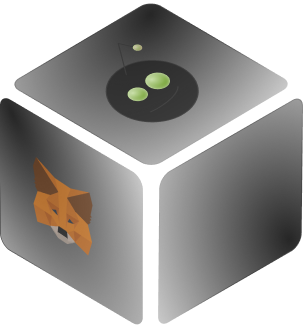
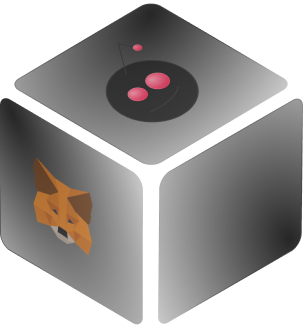
Theme change, editor wip for posts

Changed region(s): [[0.4158, 0.2128, 0.5644, 0.304], [0.4455, 0.1216, 0.4752, 0.152]]

diff --git a/components/pages/createPost/TextEditor.tsx b/components/pages/createPost/TextEditor.tsx
@@ -1,0 +1,69 @@
+import React, { SetStateAction } from "react";
+import { FontAwesomeIcon } from "@fortawesome/react-fontawesome";
+import {
+  faBold,
+  faItalic,
+  faLink,
+  faList,
+  faStrikethrough,
+} from "@fortawesome/free-solid-svg-icons";
+import Tippy from "@tippyjs/react";
+import { IconProp } from "@fortawesome/fontawesome-svg-core";
+
+interface Options {
+  action: string;
+  icon: IconProp;
+  active: boolean;
+}
+
+interface Props {
+  setActiveMarkdown: React.Dispatch<SetStateAction<string[]>>;
+}
+
+const TextEditor = ({ setActiveMarkdown }: Props) => {
+  const [activeOptions, setActiveOptions] = React.useState<Options[]>([
+    { action: "bold", icon: faBold, active: false },
+    { action: "italic", icon: faItalic, active: false },
+    { action: "strike through", icon: faStrikethrough, active: false },
+    { action: "list", icon: faList, active: false },
+    { action: "link", icon: faLink, active: false },
+  ]);
+  const activeHandler = (action: string) => {
+    const newActiveOptions = activeOptions.map((option) => {
+      if (option.action === action) {
+        option.active = !option.active;
+      }
+      return option;
+    });
+    setActiveOptions(newActiveOptions);
+    setActiveMarkdown(
+      newActiveOptions.reduce((acc, option) => {
+        if (option.active) {
+          acc.push(option.action);
+        }
+        return acc;
+      }, [] as string[])
+    );
+  };
+  return (
+    <div
+      className="w-full h-10 border-zinc-800 bg-darkContent rounded-tl
+        rounded-tr border-t border-l border-r mt-5 flex items-center justify-center px-3 gap-5"
+    >
+      {activeOptions.map(({ active, action, icon }, index) => (
+        <Tippy key={index.toString()} content={action}>
+          <FontAwesomeIcon
+            onClick={() => activeHandler(action)}
+            className={`text-content transition-all duration-200
+            hover:brightness-125 cursor-pointer hover:bg-contentBg focus:outline-0 ${
+              active && "text-primary"
+            }`}
+            icon={icon}
+          />
+        </Tippy>
+      ))}
+    </div>
+  );
+};
+
+export default TextEditor;

diff --git a/pages/create.tsx b/pages/create.tsx
@@ -1,0 +1,61 @@
+import Layout from "../components/global/Layout";
+import PageContainer from "../components/global/PageContainer";
+import React, { useEffect } from "react";
+import Input from "../components/global/Input";
+import Button from "../components/global/Button";
+import TextEditor from "../components/pages/createPost/TextEditor";
+
+const Create = () => {
+  const [postInfo, setPostInfo] = React.useState({
+    title: "",
+    content: "",
+  });
+  const [activeMarkdown, setActiveMarkdown] = React.useState<any>([]);
+  const inputHandler = (e: React.ChangeEvent<any>) => {
+    setPostInfo({
+      ...postInfo,
+      [e.target.name || "content"]:
+        e.target.value || e.currentTarget.textContent,
+    });
+  };
+  return (
+    <PageContainer>
+      <h1 className="text-white text-[30px] font-bold">Create post</h1>
+      <div
+        className="mt-10 border border-zinc-800 bg-contentBg
+      rounded-xl h-auto px-10 py-10"
+      >
+        <Input
+          className="h-12 px-5"
+          type="text"
+          name="title"
+          placeholder={"Title"}
+          onChange={(e) => inputHandler(e)}
+          value={postInfo.title}
+        />
+        <TextEditor setActiveMarkdown={setActiveMarkdown} />
+        <div
+          placeholder="What are your thoughts?"
+          contentEditable={true}
+          onInput={(e) => inputHandler(e)}
+          className="text-[14px] bg-darkContent text-white resize-none
+          transition-all duration-200 border border-zinc-800 w-full
+          h-80 focus:outline-0 focus:border-primary p-5 rounded-br rounded-bl"
+        />
+        <Button
+          normal={false}
+          disabled={true}
+          className={`mt-10 bg-primary w-full max-w-[100px] mx-auto ${
+            postInfo.content.length < 1 && "bg-content cursor-not-allowed"
+          }`}
+        >
+          Create
+        </Button>
+      </div>
+    </PageContainer>
+  );
+};
+
+export default Create;
+
+Create.getLayout = (page: any) => <Layout>{page}</Layout>;

diff --git a/components/global/Input.tsx b/components/global/Input.tsx
@@ -14,6 +14,7 @@ interface Props {
   onBlur?: (e?: any) => void;
   onChange: (e?: any) => void;
   value: string;
+  name: string;
   placeholder?: string;
 }
 
@@ -23,13 +24,15 @@ const Input = ({
   onFocus,
   onBlur,
   value,
+  name,
   onChange,
   placeholder,
 }: Props) => {
   return (
     <input
+      name={name}
       className={`text-[12px] bg-darkContent text-white resize-none
-          transition-all duration-200 border border-zinc-800 w-full
+          transition-all duration-200 p-2 border border-zinc-800 w-full
           rounded-md focus:outline-0 focus:border-primary ${className}`}
       type={type}
       onFocus={onFocus}

diff --git a/components/global/Button.tsx b/components/global/Button.tsx
@@ -4,11 +4,13 @@ interface Props {
   children: React.ReactNode;
   normal: boolean;
   className?: string;
+  disabled?: boolean;
 }
 
-const Button = ({ normal, children, className }: Props) => {
+const Button = ({ normal, children, className, disabled }: Props) => {
   return (
     <button
+      disabled={disabled}
       className={`h-[32px]  gap-1 flex items-center justify-center ${
         normal && "bg-zinc-800 border border-zinc-700"
       } text-white text-[12px] transition-all px-7 rounded-md hover:transition-all 

diff --git a/components/global/NavBar.tsx b/components/global/NavBar.tsx
@@ -61,9 +61,11 @@ const NavBar = () => {
           </Link>
           {user?.address ? (
             <>
-              <Button className="bg-primary" normal={false}>
-                + Create post
-              </Button>
+              <Link href="/create">
+                <Button className="bg-primary" normal={false}>
+                  + Create post
+                </Button>
+              </Link>
               <UserDropdown
                 toggleDropDown={toggleDropDown}
                 dropDown={dropDown as boolean}

diff --git a/pages/post/[id]/index.tsx b/pages/post/[id]/index.tsx
@@ -19,7 +19,8 @@ const Index = () => {
           <Vote count={200} />
         </div>
         <p className="text-sm text-content">
-          Posted by <span className="text-primary">Jager32</span> 12 hours ago
+          Posted by <span className="text-primary font-bold">Jager32</span> 12
+          hours ago
         </p>
         <h1 className="text-[20px] md:text-[30px] text-white mt-2">
           Saw a guy walking the other day and this is what happened

diff --git a/components/pages/browse/Post.tsx b/components/pages/browse/Post.tsx
@@ -16,7 +16,8 @@ const Post = () => {
         <Vote count={200} />
       </div>
       <p className="text-sm text-content">
-        Posted by <span className="text-primary">Jager32</span> 12 hours ago
+        Posted by <span className="text-primary font-bold">Jager32</span> 12
+        hours ago
       </p>
       <Link href="/post/1">
         <h1 className="text-[20px] md:text-[30px] text-white mt-2">

diff --git a/pages/_app.tsx b/pages/_app.tsx
@@ -4,6 +4,7 @@ import type { Page } from "../src/custom";
 import React from "react";
 import { QueryClient, QueryClientProvider } from "react-query";
 import { UserProvider } from "../src/contexts/User";
+import "tippy.js/dist/tippy.css"; // optional
 
 type Props = AppProps & {
   Component: Page;

diff --git a/tailwind.config.js b/tailwind.config.js
@@ -9,7 +9,7 @@ module.exports = {
   theme: {
     extend: {
       colors: {
-        primary: colors.lime["600"],
+        primary: colors.rose["600"],
         content: colors.zinc["500"],
         contentBg: "#181818",
         darkContent: "#151515",
